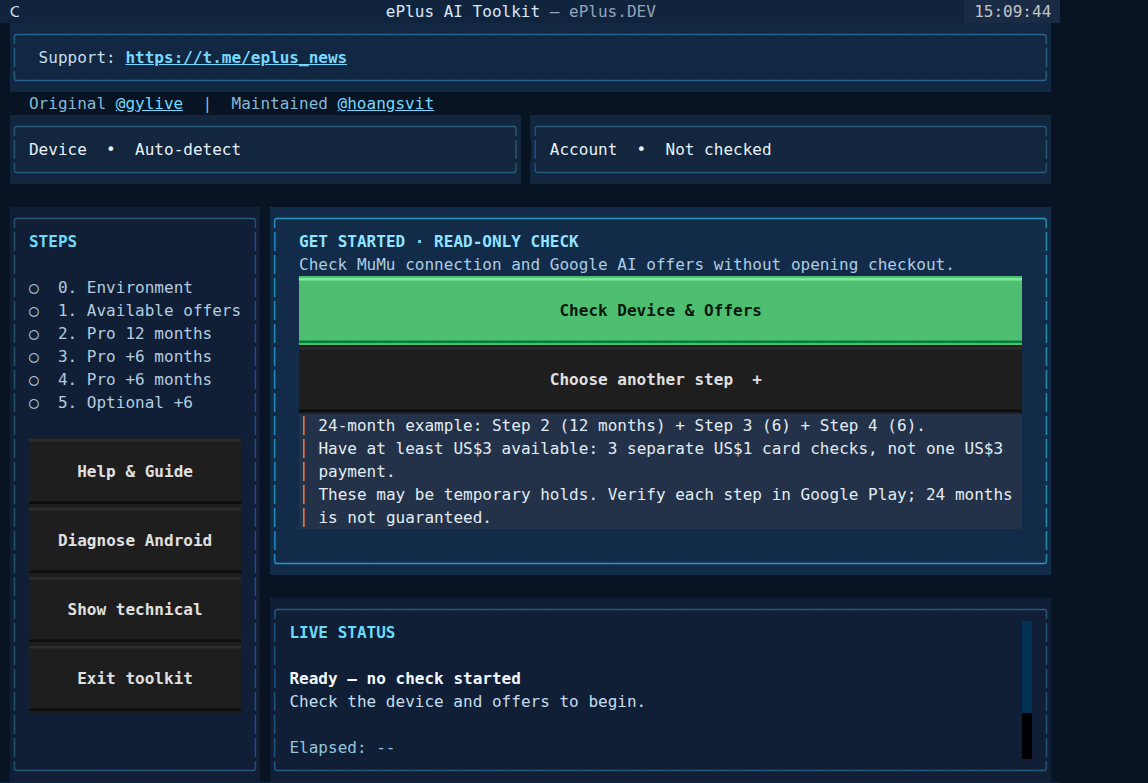
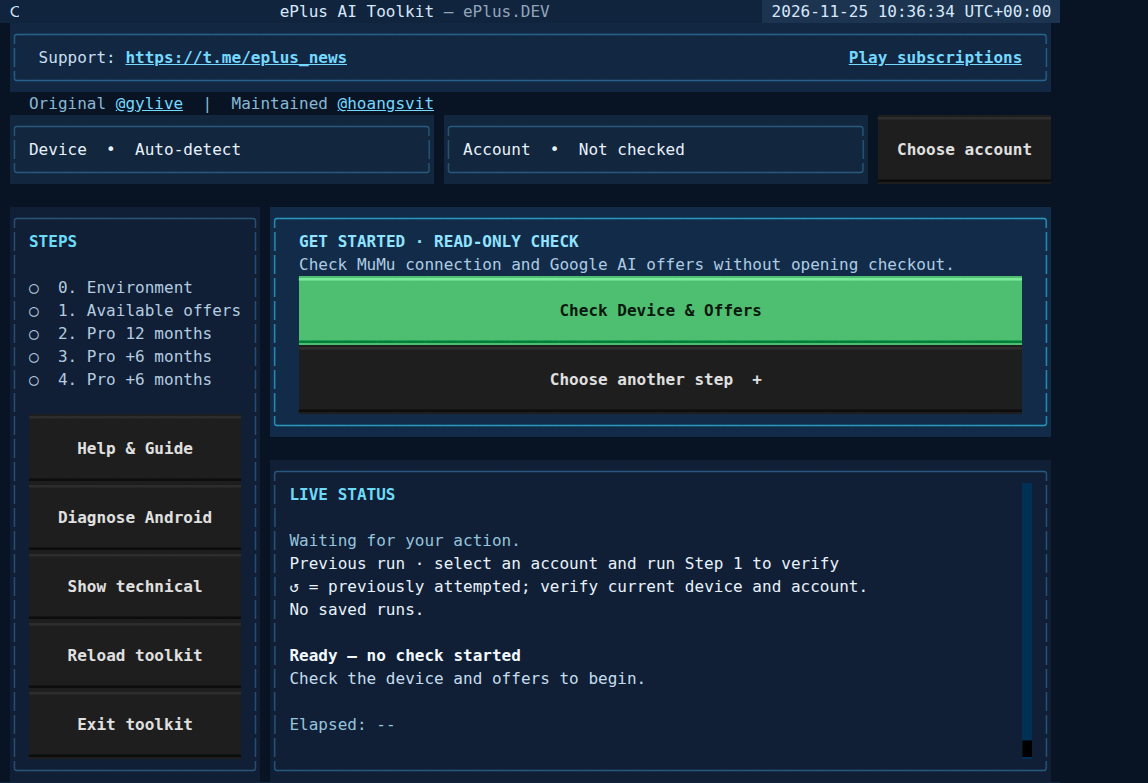
docs: refresh README dashboard with latest verified UI screenshot

diff --git a/README.md b/README.md
@@ -4,7 +4,7 @@
 
 A terminal toolkit for **Windows, macOS and Linux** to inspect Google AI Pro offers through Android, ADB, Frida and Google Play. Windows uses a PowerShell/Python launcher; macOS and Linux use native shell launchers with a shared Python adapter.
 
-![ePlus AI Toolkit — full dashboard (110×35, Steps 0–5)](images/terminal-ui-overview.png)
+![ePlus AI Toolkit — startup dashboard (110×35)](images/terminal-ui-overview.png)
 
 > [!CAUTION]
 > **Unofficial project. Potential billing charges.** Steps **2–5** can open a real Google Play checkout and may automatically tap **Subscribe**. An offer appearing in a list, a displayed first-phase price of zero, or a message indicating that the Subscribe action was attempted does **not** establish eligibility, an active subscription, a free subscription, or a changed renewal date. Verify the exact account, today's charge, future pricing and renewal date directly in Google Play before any checkout.

diff --git a/README.vi.md b/README.vi.md
@@ -1,6 +1,6 @@
 # ePlus AI Toolkit — Tiếng Việt
 
-<!-- Source README.md git-blob: c7018f985552a23753771a1e7f338b1d3da10012 -->
+<!-- Source README.md git-blob: afc22139893546e8a4b9449722ededacfedd7f2c -->
 
 [English](README.md) · **Tiếng Việt** · [简体中文](README.zh-CN.md) · [日本語](README.ja.md) · [한국어](README.ko.md) · [Español](README.es.md) · [Français](README.fr.md)
 

diff --git a/README.fr.md b/README.fr.md
@@ -1,6 +1,6 @@
 # ePlus AI Toolkit — Français
 
-<!-- Source README.md git-blob: c7018f985552a23753771a1e7f338b1d3da10012 -->
+<!-- Source README.md git-blob: afc22139893546e8a4b9449722ededacfedd7f2c -->
 
 [English](README.md) · [Tiếng Việt](README.vi.md) · [简体中文](README.zh-CN.md) · [日本語](README.ja.md) · [한국어](README.ko.md) · [Español](README.es.md) · **Français**
 

diff --git a/README.ja.md b/README.ja.md
@@ -1,6 +1,6 @@
 # ePlus AI Toolkit — 日本語
 
-<!-- Source README.md git-blob: c7018f985552a23753771a1e7f338b1d3da10012 -->
+<!-- Source README.md git-blob: afc22139893546e8a4b9449722ededacfedd7f2c -->
 
 [English](README.md) · [Tiếng Việt](README.vi.md) · [简体中文](README.zh-CN.md) · **日本語** · [한국어](README.ko.md) · [Español](README.es.md) · [Français](README.fr.md)
 

diff --git a/README.ko.md b/README.ko.md
@@ -1,6 +1,6 @@
 # ePlus AI Toolkit — 한국어
 
-<!-- Source README.md git-blob: c7018f985552a23753771a1e7f338b1d3da10012 -->
+<!-- Source README.md git-blob: afc22139893546e8a4b9449722ededacfedd7f2c -->
 
 [English](README.md) · [Tiếng Việt](README.vi.md) · [简体中文](README.zh-CN.md) · [日本語](README.ja.md) · **한국어** · [Español](README.es.md) · [Français](README.fr.md)
 

diff --git a/README.zh-CN.md b/README.zh-CN.md
@@ -1,6 +1,6 @@
 # ePlus AI Toolkit — 简体中文
 
-<!-- Source README.md git-blob: c7018f985552a23753771a1e7f338b1d3da10012 -->
+<!-- Source README.md git-blob: afc22139893546e8a4b9449722ededacfedd7f2c -->
 
 [English](README.md) · [Tiếng Việt](README.vi.md) · **简体中文** · [日本語](README.ja.md) · [한국어](README.ko.md) · [Español](README.es.md) · [Français](README.fr.md)
 

diff --git a/README.es.md b/README.es.md
@@ -1,6 +1,6 @@
 # ePlus AI Toolkit — Español
 
-<!-- Source README.md git-blob: c7018f985552a23753771a1e7f338b1d3da10012 -->
+<!-- Source README.md git-blob: afc22139893546e8a4b9449722ededacfedd7f2c -->
 
 [English](README.md) · [Tiếng Việt](README.vi.md) · [简体中文](README.zh-CN.md) · [日本語](README.ja.md) · [한국어](README.ko.md) · **Español** · [Français](README.fr.md)
 
